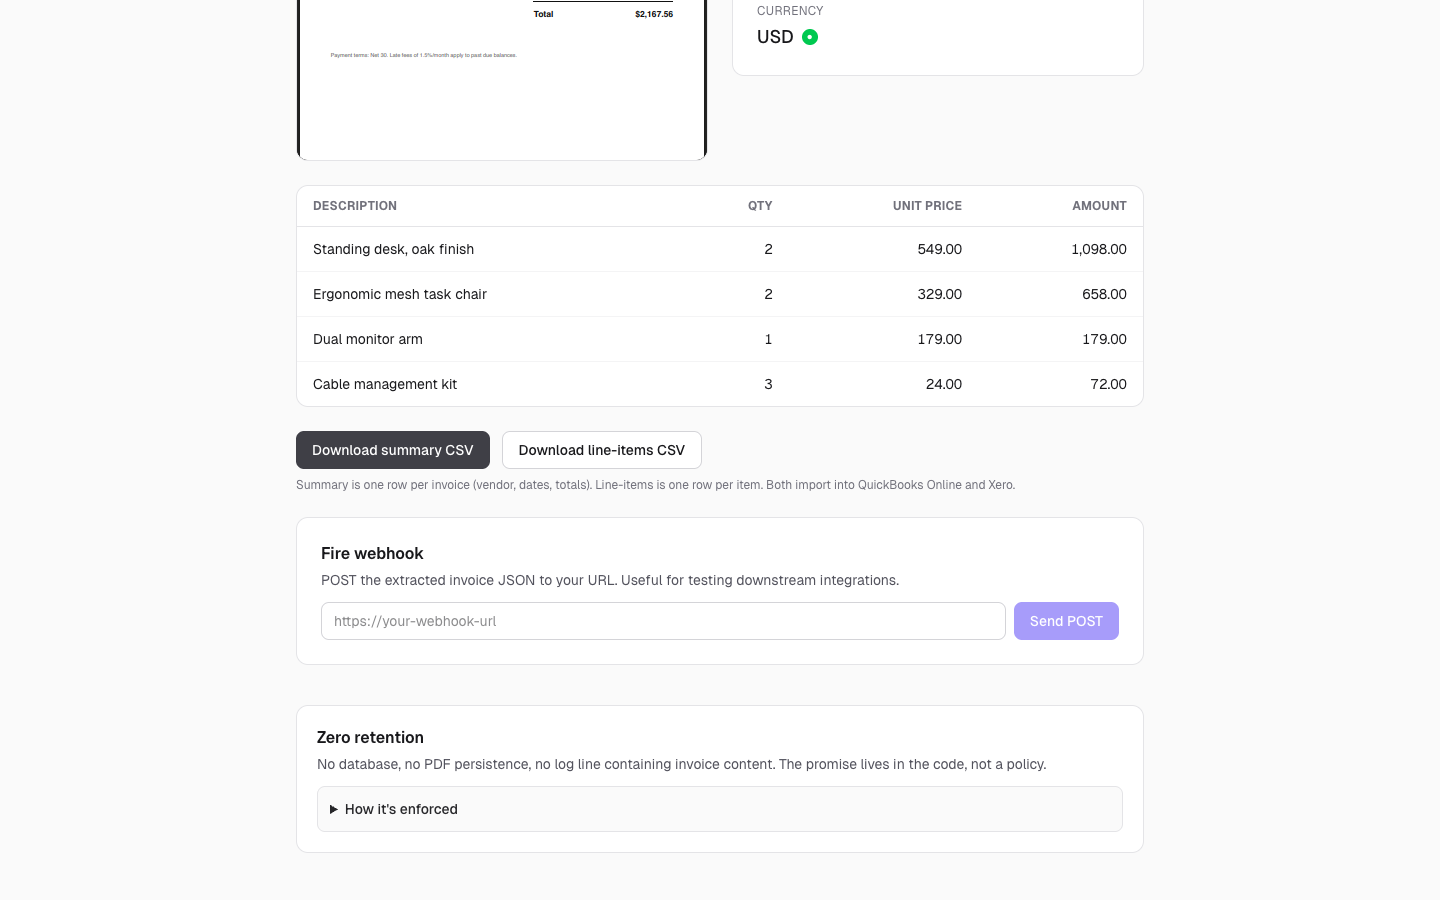
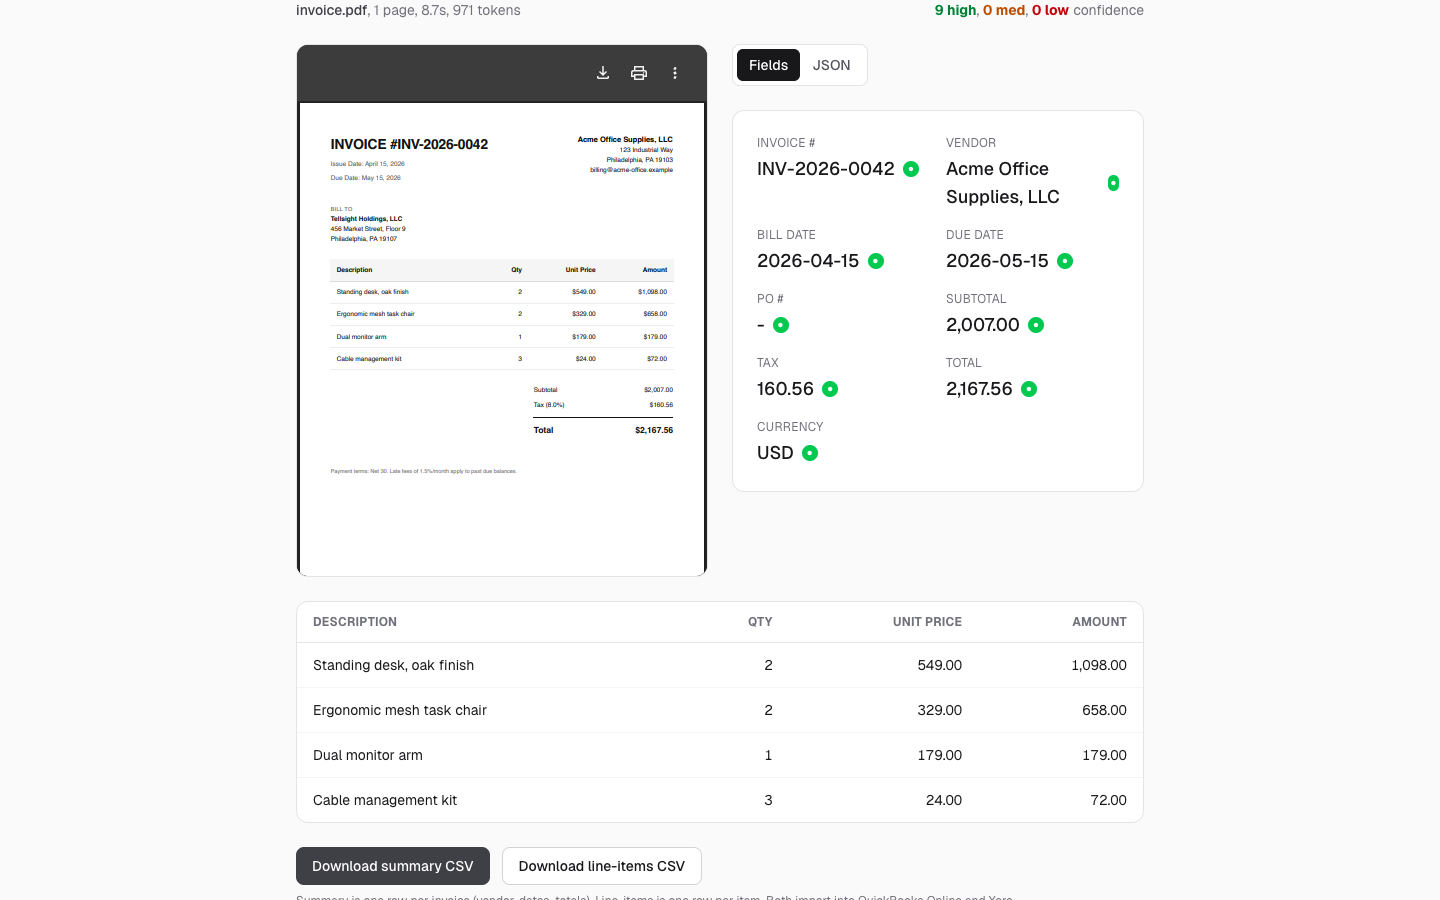
Refresh README screenshots and document click-to-highlight + inline edit
Adds a new extract-highlight.png to the gallery showing the
image-input flow with the bbox overlay highlighting the vendor
block in the synthetic invoice. Wired into screenshots.mjs via a
new captureImageHighlight() that uploads the synthetic invoice as
PNG, hovers the Vendor field to engage the highlight, then captures.
The synthetic invoice is now generated as both PDF (via page.pdf,
existing) and PNG (via page.screenshot in a Letter-aspect viewport).

README design-decisions list gains two entries documenting the new
features:

- Click-to-highlight: explains the [bbox: x, y, w, h] reasoning-prefix
  contract, why it's image-only (cross-origin iframe sandboxing on
  PDF previews), and the parse-then-strip flow on the client.
- Inline editing: documents the click-to-edit interaction, parse
  rules per field type, Enter/blur/Escape commit semantics, and
  that CSV + webhook reflect edits.

Gallery layout: extract-success.png stays the full-width hero (PDF
flow), extract-highlight.png drops in directly below as a second
full-width image (image flow with overlay), then the existing 2x2
row for JSON view + CSV export, and error-state.png at the bottom.

diff --git a/README.md b/README.md
@@ -24,6 +24,10 @@ There's no login or database. Files process in memory inside a single Vercel Fun
   <img src="public/screenshots/extract-success.png" alt="Side-by-side PDF preview and extracted fields with confidence dots" width="100%">
 </p>
 
+<p align="center">
+  <img src="public/screenshots/extract-highlight.png" alt="Image upload with click-to-highlight: hovering the Vendor field highlights the source region in the invoice image" width="100%">
+</p>
+
 <table>
 <tr>
 <td width="50%"><img src="public/screenshots/extract-json.png" alt="JSON view tab showing the api/extract response shape"></td>
@@ -116,6 +120,10 @@ src/
 ## Design decisions worth calling out
 
 **Per-field confidence and reasoning.** Every extracted field is a `{value, confidence, reasoning}` tuple. Hover or focus a field to see the source-cited reasoning. The tooltip is keyboard-accessible (Tab to reveal, Escape to dismiss) and wired to the field via `aria-describedby`.
+
+**Click-to-highlight (image inputs).** When the input is an image, Claude vision is asked to prefix every reasoning string with a `[bbox: x, y, w, h]` tag using normalized 0..1 coordinates. The client parses the prefix off, strips it from the displayed reasoning, and uses the coordinates to overlay an indigo highlight on the source region whenever the field is hovered or focused. PDFs use the existing iframe preview (cross-origin sandboxing prevents overlays on browser-rendered PDFs); the bbox is image-only.
+
+**Inline editing.** Click any field value in the results panel to swap the display for an input. Money fields parse to numbers via `parseFloat`, dates and strings save as-is, Enter or blur commits, Escape cancels. CSV export and webhook fire use the edited values, not the original extraction. State resets when a new file is uploaded.
 
 **Two-pass validation.** Claude flags cross-field issues during extraction. A deterministic pass in `lib/validate.ts` runs independently and merges its findings. Either alone misses things the other catches.
 
